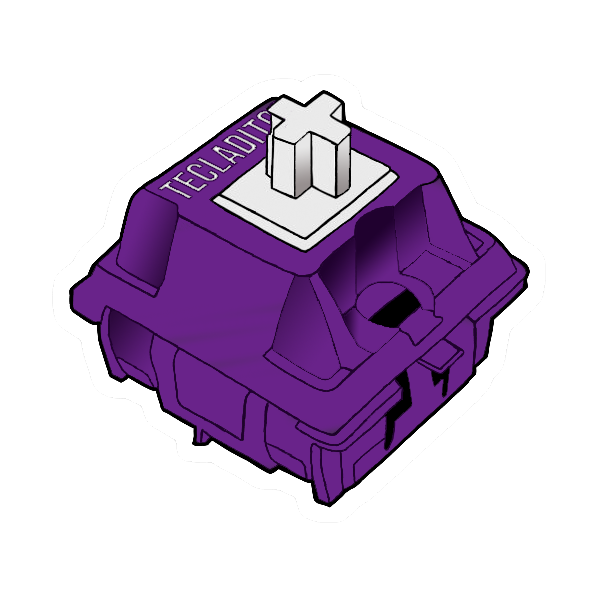
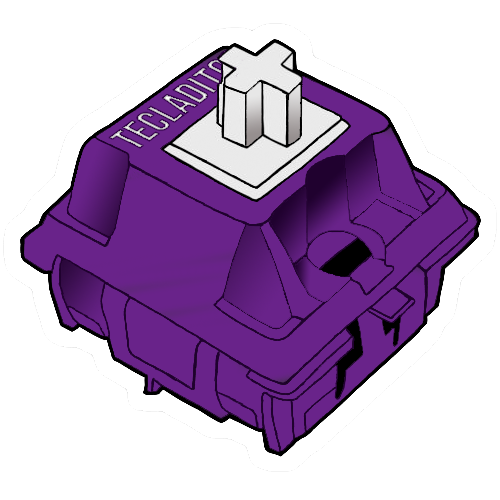
feat(theme): arq

Changed region(s): [[0.03, 0.06, 0.96, 0.93]]

diff --git a/src/styles.scss b/src/styles.scss
@@ -79,7 +79,7 @@ body {
         max-width: none !important;
         min-height: 500px !important;
     }
-    .mat-option-text {
+    .mat-option-text, .mat-tab-label {
         user-select: none;
     }
 
@@ -250,8 +250,8 @@ body.tecladitos {
         content: url(assets/tecladitos.png);
         position: relative;
         top: -186px;
-        width: 170px;
-        height: 170px;
+        width: 160px;
+        height: 160px;
         animation: moveKeyboard 5s ease infinite;
     }
     .keyLetter {
@@ -265,12 +265,7 @@ body.tecladitos {
     }
     .hueGradient {
         background: rgb(255, 0, 0);
-        background: linear-gradient(
-                0deg,
-                #69238a 40%,
-                rgba(255, 255, 255, 0) 50%,
-                #69238a 60%
-            ),
+        background: linear-gradient(0deg, #69238a 40%, rgba(255, 255, 255, 0) 50%, #69238a 60%),
             linear-gradient(
                 90deg,
                 rgba(255, 0, 0, 1) 0%,
@@ -284,16 +279,69 @@ body.tecladitos {
     }
     .satGradient {
         margin-left: 5px;
-        background: linear-gradient(
-                0deg,
-                #69238a 40%,
-                rgba(255, 255, 255, 0) 50%,
-                #69238a 60%
-            ),
+        background: linear-gradient(0deg, #69238a 40%, rgba(255, 255, 255, 0) 50%, #69238a 60%),
             linear-gradient(90deg, rgba(255, 255, 255, 1) 0%, rgba(255, 255, 255, 0) 100%),
             linear-gradient(0deg, rgba(255, 0, 0, 1) 46%, rgba(0, 255, 0, 1) 50%, rgba(0, 0, 255, 1) 54%);
     }
     .dragOver {
         color: #69238a;
+    }
+}
+
+body.arq {
+    color: white;
+    background-color: #fa2929;
+    button,
+    select,
+    .mat-menu-panel,
+    .mat-select-panel {
+        color: #232222 !important;
+        background-color: white !important;
+        border: 1px solid #232222;
+    }
+    img.main-image {
+        content: url(assets/arq.png);
+        position: relative;
+        top: -180px;
+        width: 140px;
+        height: 140px;
+        animation: moveKeyboard 5s ease infinite;
+    }
+    .keyLetter {
+        background-color: white;
+        border: 1px solid #fa2929;
+        color: #232222;
+    }
+    .key.isoEnter:after {
+        background-color: white;
+        color: white;
+    }
+    .mat-tab-group.mat-primary .mat-ink-bar,
+    .mat-tab-nav-bar.mat-primary .mat-ink-bar {
+        background-color: white !important;
+        color: #232222 !important;
+    }
+    .hueGradient {
+        background: rgb(255, 0, 0);
+        background: linear-gradient(0deg, #fa2929 40%, rgba(255, 255, 255, 0) 50%, #fa2929 60%),
+            linear-gradient(
+                90deg,
+                rgba(255, 0, 0, 1) 0%,
+                rgba(255, 255, 0, 1) 17%,
+                rgba(0, 255, 0, 1) 33%,
+                rgba(0, 255, 255, 1) 50%,
+                rgba(0, 0, 255, 1) 67%,
+                rgba(255, 0, 255, 1) 83%,
+                rgba(255, 0, 0, 1) 100%
+            );
+    }
+    .satGradient {
+        margin-left: 5px;
+        background: linear-gradient(0deg, #fa2929 40%, rgba(255, 255, 255, 0) 50%, #fa2929 60%),
+            linear-gradient(90deg, rgba(255, 255, 255, 1) 0%, rgba(255, 255, 255, 0) 100%),
+            linear-gradient(0deg, rgba(255, 0, 0, 1) 46%, rgba(0, 255, 0, 1) 50%, rgba(0, 0, 255, 1) 54%);
+    }
+    .dragOver {
+        color: #fa2929;
     }
 }

diff --git a/src/app/via/menu/menu.component.html b/src/app/via/menu/menu.component.html
@@ -13,7 +13,8 @@
             <button class="btn-miguelio" (click)="setVersion('miguelio')" mat-menu-item><img width="30" src="assets/miguelio.jpg"> Miguelio</button>
             <button class="btn-keebary" (click)="setVersion('keebary')" mat-menu-item><img width="33" src="assets/keebary.png"> Keebary</button>
             <button class="btn-quark" (click)="setVersion('quark')" mat-menu-item><img width="35" src="assets/quarkworks.svg"> Quark works</button>
-            <button class="btn-tecladitos" (click)="setVersion('tecladitos')" mat-menu-item><img width="45" src="assets/tecladitos.png"> Tecladitos</button>
+            <button class="btn-tecladitos" (click)="setVersion('tecladitos')" mat-menu-item><img width="40" src="assets/tecladitos.png"> Tecladitos</button>
+            <button class="btn-arq" (click)="setVersion('arq')" mat-menu-item><img width="35" src="assets/arq.png"> ARQKeebs</button>
         </mat-menu>
     </div>
     <div *ngIf="router.url == '/mapper'">

diff --git a/src/app/via/menu/menu.component.ts b/src/app/via/menu/menu.component.ts
@@ -22,7 +22,7 @@ export class MenuComponent {
         private store: Store<AppState>,
         private requestsService: RequestsService
     ) {
-        window.process.argv.forEach(arg => {
+        window.process?.argv.forEach(arg => {
             if (arg.indexOf('--version=') === 0) {
                 this.setVersion(arg.split('=')[1]);
             }
@@ -63,6 +63,7 @@ export class MenuComponent {
             case 'keebary': document.body.className = 'keebary'; break;
             case 'quark': document.body.className = 'quark'; break;
             case 'tecladitos': document.body.className = 'tecladitos'; break;
+            case 'arq': document.body.className = 'arq'; break;
             default: document.body.className = ""; break;
         }
         this.requestsService.setVersion(version);

diff --git a/src/app/via/menu/menu.component.scss b/src/app/via/menu/menu.component.scss
@@ -64,6 +64,20 @@ button {
     border-radius: 5px;
     color: white !important;
     img {
-        margin-right: 15px;
+        margin-right: 13px;
+        margin-left: -3px;
+    }
+}
+
+.btn-arq {
+    background-color: #fa2929 !important;
+    display: flex;
+    flex-direction: row;
+    align-items: center;
+    border-radius: 5px;
+    color: white !important;
+    img {
+        margin-right: 18px;
+        margin-left: -3px;
     }
 }
